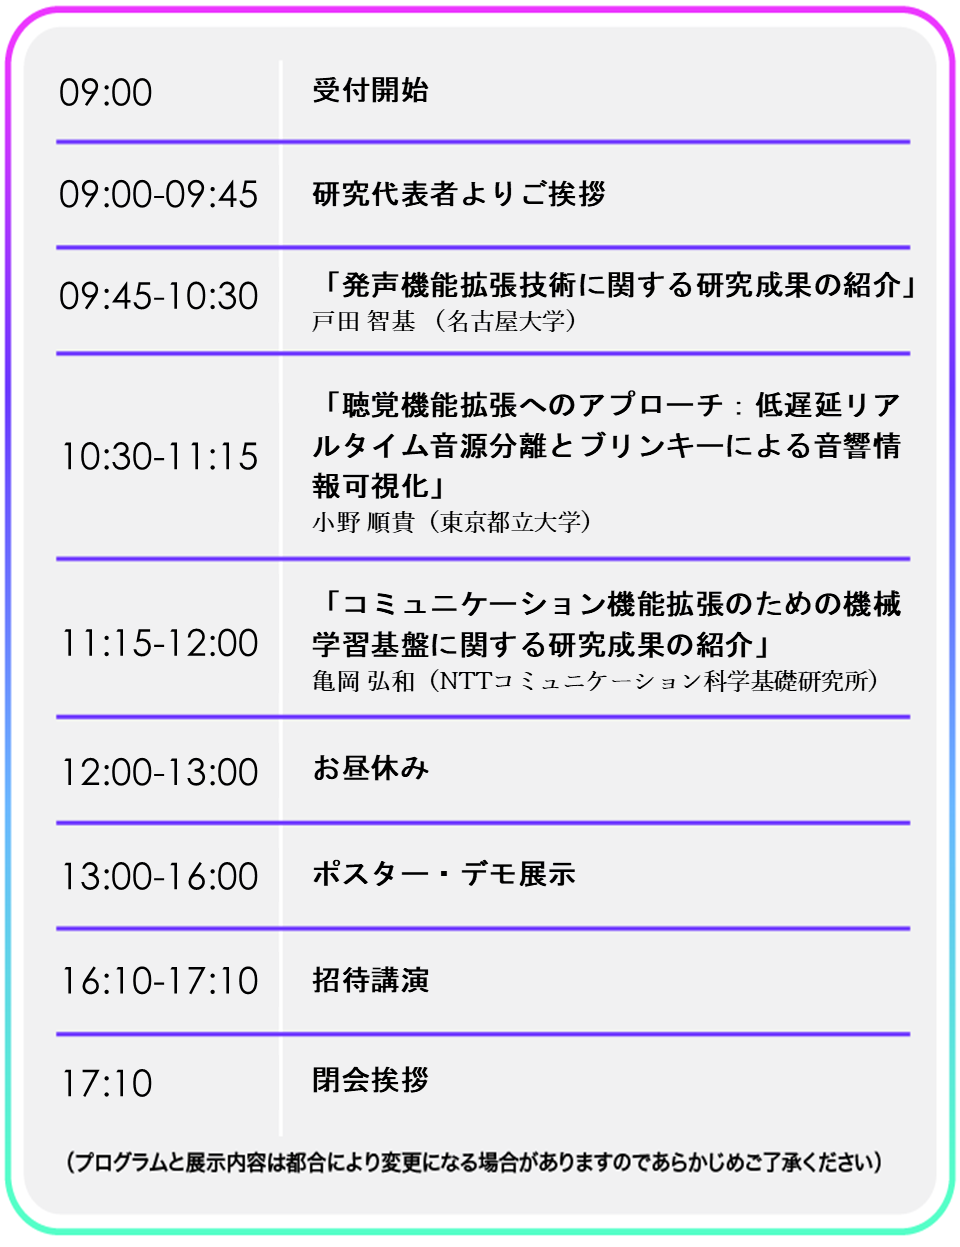
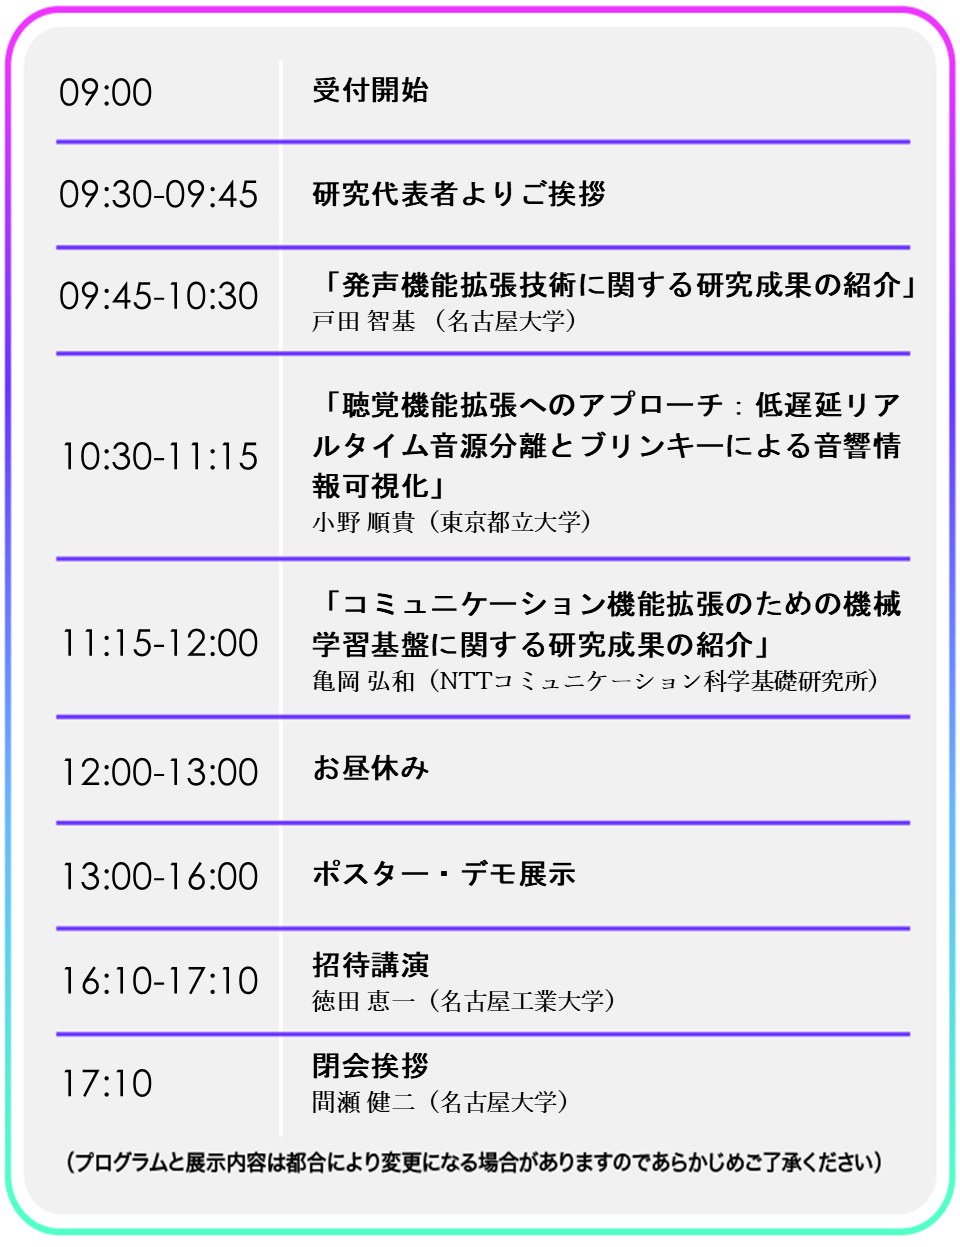
updated Nov.2

Changed region(s): [[0.3125, 0.7618, 0.625, 0.9142], [0.5, 0.8532, 0.5312, 0.9142]]

diff --git a/index.html b/index.html
@@ -676,9 +676,9 @@ blockquote {
 </p></div></div><figure id="d90ffe4f-23bd-49bf-b7ba-47147c19b316" class="image"><a href="images/%25E3%2582%25A2%25E3%2583%25BC%25E3%2583%2588%25E3%2583%259B%25E3%2582%2599%25E3%2583%25BC%25E3%2583%2588%25E3%2582%2599_28_%25E3%2581%25AE%25E3%2582%25B3%25E3%2583%2592%25E3%2582%259A%25E3%2583%25BC_6.png"><img style="width:720px" src="images/%25E3%2582%25A2%25E3%2583%25BC%25E3%2583%2588%25E3%2583%259B%25E3%2582%2599%25E3%2583%25BC%25E3%2583%2588%25E3%2582%2599_28_%25E3%2581%25AE%25E3%2582%25B3%25E3%2583%2592%25E3%2582%259A%25E3%2583%25BC_6.png"/></a></figure><p id="0615dd73-0137-485a-b58f-cba4babee2ea" class="">
 </p><p id="3919a239-8a8a-4581-88c8-f5f0345285d6" class="">
 </p><figure id="8c50fe93-ac97-420c-8fe2-b9af1c237d29" class="image" style="text-align:left"><a href="images/%25E3%2582%25A2%25E3%2583%25BC%25E3%2583%2588%25E3%2583%259B%25E3%2582%2599%25E3%2583%25BC%25E3%2583%2588%25E3%2582%2599_10_%25E3%2581%25AE%25E3%2582%25B3%25E3%2583%2592%25E3%2582%259A%25E3%2583%25BC_8.png"><img style="width:481px" src="images/%25E3%2582%25A2%25E3%2583%25BC%25E3%2583%2588%25E3%2583%259B%25E3%2582%2599%25E3%2583%25BC%25E3%2583%2588%25E3%2582%2599_10_%25E3%2581%25AE%25E3%2582%25B3%25E3%2583%2592%25E3%2582%259A%25E3%2583%25BC_8.png"/></a></figure><p id="f75af945-7908-4a3d-8fea-4f783b697690" class="block-color-gray">本シンポジウムでは、まず、研究代表者と2名の研究分担者が、JST CREST「共創型音メディア機能拡張」プロジェクトの研究成果を紹介する登壇発表を行います。その後、昼休憩をはさみまして、本プロジェクトメンバーが各種研究成果についてポスター発表およびデモ展示を行います。最後には、名古屋工業大学の徳田恵一教授をお招きして、音声合成技術に関する招待講演を行って頂きます。</p><p id="e30cc480-1bdd-49fc-ab63-71607212755b" class="">
-</p><figure id="05432828-5381-4fa6-8897-75e4aa9d2ebd" class="image"><a href="images/%25E3%2582%25B9%25E3%2582%25B1%25E3%2582%25B8%25E3%2583%25A5%25E3%2583%25BC%25E3%2583%25AB.png"><img style="width:960px" src="images/%25E3%2582%25B9%25E3%2582%25B1%25E3%2582%25B8%25E3%2583%25A5%25E3%2583%25BC%25E3%2583%25AB.png"/></a></figure><p id="9236d61c-fa75-44ed-bb23-b9ae7f68c420" class="">
+</p><figure id="ce876eb9-b8b3-44db-82db-ef47f01d02d2" class="image"><a href="images/%25E3%2582%25B9%25E3%2582%25B1%25E3%2582%25B8%25E3%2583%25A5%25E3%2583%25BC%25E3%2583%25AB.png"><img style="width:960px" src="images/%25E3%2582%25B9%25E3%2582%25B1%25E3%2582%25B8%25E3%2583%25A5%25E3%2583%25BC%25E3%2583%25AB.png"/></a></figure><p id="9236d61c-fa75-44ed-bb23-b9ae7f68c420" class="">
 </p><p id="ac024ff6-e197-4039-a9b0-5f51edbcd350" class="">
-</p><figure id="07e126ca-d70d-49ad-b94a-20632d746e72" class="image" style="text-align:left"><a href="images/%25E3%2582%25A2%25E3%2583%25BC%25E3%2583%2588%25E3%2583%259B%25E3%2582%2599%25E3%2583%25BC%25E3%2583%2588%25E3%2582%2599_10_%25E3%2581%25AE%25E3%2582%25B3%25E3%2583%2592%25E3%2582%259A%25E3%2583%25BC_10.png"><img style="width:481px" src="images/%25E3%2582%25A2%25E3%2583%25BC%25E3%2583%2588%25E3%2583%259B%25E3%2582%2599%25E3%2583%25BC%25E3%2583%2588%25E3%2582%2599_10_%25E3%2581%25AE%25E3%2582%25B3%25E3%2583%2592%25E3%2582%259A%25E3%2583%25BC_10.png"/></a></figure><figure id="b65242bd-f00a-431b-a7f7-e9d3f65a4e4c" class="image"><a href="images/%25E3%2583%2597%25E3%2583%25AD%25E3%2583%2595%25E3%2582%25A3%25E3%2583%25BC%25E3%2583%25AB_(2).png"><img style="width:960px" src="images/%25E3%2583%2597%25E3%2583%25AD%25E3%2583%2595%25E3%2582%25A3%25E3%2583%25BC%25E3%2583%25AB_(2).png"/></a></figure><figure id="4479d2eb-d85f-4bd1-96a0-aa2598fe6fa2" class="image"><a href="images/%25E3%2583%2597%25E3%2583%25AD%25E3%2583%2595%25E3%2582%25A3%25E3%2583%25BC%25E3%2583%25AB_(1).png"><img style="width:960px" src="images/%25E3%2583%2597%25E3%2583%25AD%25E3%2583%2595%25E3%2582%25A3%25E3%2583%25BC%25E3%2583%25AB_(1).png"/></a></figure><figure id="f2ff6783-7140-4a03-b1f7-244f62995b1b" class="image"><a href="images/%25E3%2583%2597%25E3%2583%25AD%25E3%2583%2595%25E3%2582%25A3%25E3%2583%25BC%25E3%2583%25AB.png"><img style="width:960px" src="images/%25E3%2583%2597%25E3%2583%25AD%25E3%2583%2595%25E3%2582%25A3%25E3%2583%25BC%25E3%2583%25AB.png"/></a></figure><figure id="784ba09c-4659-4921-b3a3-4b54fc843868" class="image"><a href="images/%25E3%2583%2597%25E3%2583%25AD%25E3%2583%2595%25E3%2582%25A3%25E3%2583%25BC%25E3%2583%25AB_%25E9%2596%2593%25E7%2580%25AC%25E5%2585%2588%25E7%2594%259F.png"><img style="width:960px" src="images/%25E3%2583%2597%25E3%2583%25AD%25E3%2583%2595%25E3%2582%25A3%25E3%2583%25BC%25E3%2583%25AB_%25E9%2596%2593%25E7%2580%25AC%25E5%2585%2588%25E7%2594%259F.png"/></a></figure><p id="8d75a452-b66b-47e7-8d79-7517fbcf295e" class="">
+</p><figure id="07e126ca-d70d-49ad-b94a-20632d746e72" class="image" style="text-align:left"><a href="images/%25E3%2582%25A2%25E3%2583%25BC%25E3%2583%2588%25E3%2583%259B%25E3%2582%2599%25E3%2583%25BC%25E3%2583%2588%25E3%2582%2599_10_%25E3%2581%25AE%25E3%2582%25B3%25E3%2583%2592%25E3%2582%259A%25E3%2583%25BC_10.png"><img style="width:481px" src="images/%25E3%2582%25A2%25E3%2583%25BC%25E3%2583%2588%25E3%2583%259B%25E3%2582%2599%25E3%2583%25BC%25E3%2583%2588%25E3%2582%2599_10_%25E3%2581%25AE%25E3%2582%25B3%25E3%2583%2592%25E3%2582%259A%25E3%2583%25BC_10.png"/></a></figure><figure id="b65242bd-f00a-431b-a7f7-e9d3f65a4e4c" class="image"><a href="images/%25E3%2583%2597%25E3%2583%25AD%25E3%2583%2595%25E3%2582%25A3%25E3%2583%25BC%25E3%2583%25AB_(2).png"><img style="width:960px" src="images/%25E3%2583%2597%25E3%2583%25AD%25E3%2583%2595%25E3%2582%25A3%25E3%2583%25BC%25E3%2583%25AB_(2).png"/></a></figure><figure id="4479d2eb-d85f-4bd1-96a0-aa2598fe6fa2" class="image"><a href="images/%25E3%2583%2597%25E3%2583%25AD%25E3%2583%2595%25E3%2582%25A3%25E3%2583%25BC%25E3%2583%25AB_(1).png"><img style="width:960px" src="images/%25E3%2583%2597%25E3%2583%25AD%25E3%2583%2595%25E3%2582%25A3%25E3%2583%25BC%25E3%2583%25AB_(1).png"/></a></figure><figure id="f2ff6783-7140-4a03-b1f7-244f62995b1b" class="image"><a href="images/%25E3%2583%2597%25E3%2583%25AD%25E3%2583%2595%25E3%2582%25A3%25E3%2583%25BC%25E3%2583%25AB.png"><img style="width:960px" src="images/%25E3%2583%2597%25E3%2583%25AD%25E3%2583%2595%25E3%2582%25A3%25E3%2583%25BC%25E3%2583%25AB.png"/></a></figure><figure id="0de2b998-826f-48b7-ad88-895434a959af" class="image"><a href="images/%25E3%2583%2597%25E3%2583%25AD%25E3%2583%2595%25E3%2582%25A3%25E3%2583%25BC%25E3%2583%25AB_%25E5%25BE%25B3%25E7%2594%25B0%25E5%2585%2588%25E7%2594%259F.png"><img style="width:960px" src="images/%25E3%2583%2597%25E3%2583%25AD%25E3%2583%2595%25E3%2582%25A3%25E3%2583%25BC%25E3%2583%25AB_%25E5%25BE%25B3%25E7%2594%25B0%25E5%2585%2588%25E7%2594%259F.png"/></a></figure><figure id="784ba09c-4659-4921-b3a3-4b54fc843868" class="image"><a href="images/%25E3%2583%2597%25E3%2583%25AD%25E3%2583%2595%25E3%2582%25A3%25E3%2583%25BC%25E3%2583%25AB_%25E9%2596%2593%25E7%2580%25AC%25E5%2585%2588%25E7%2594%259F.png"><img style="width:960px" src="images/%25E3%2583%2597%25E3%2583%25AD%25E3%2583%2595%25E3%2582%25A3%25E3%2583%25BC%25E3%2583%25AB_%25E9%2596%2593%25E7%2580%25AC%25E5%2585%2588%25E7%2594%259F.png"/></a></figure><p id="8d75a452-b66b-47e7-8d79-7517fbcf295e" class="">
 </p><p id="31d00bf4-e8ce-4f64-923b-5f471749ebed" class="">
 </p><figure id="e6d9a99f-6334-4d49-a1fd-13e09a4686a0" class="image" style="text-align:left"><a href="images/%25E3%2582%25A2%25E3%2583%25BC%25E3%2583%2588%25E3%2583%259B%25E3%2582%2599%25E3%2583%25BC%25E3%2583%2588%25E3%2582%2599_10_%25E3%2581%25AE%25E3%2582%25B3%25E3%2583%2592%25E3%2582%259A%25E3%2583%25BC_9.jpg"><img style="width:481px" src="images/%25E3%2582%25A2%25E3%2583%25BC%25E3%2583%2588%25E3%2583%259B%25E3%2582%2599%25E3%2583%25BC%25E3%2583%2588%25E3%2582%2599_10_%25E3%2581%25AE%25E3%2582%25B3%25E3%2583%2592%25E3%2582%259A%25E3%2583%25BC_9.jpg"/></a></figure><h3 id="39eab404-ef83-4ad0-9ffc-16fc00dd438a" class=""><strong>セッション１（13:00-14:00）</strong></h3><hr id="4ebde5e1-4500-401b-bb35-b4c172c449af"/><p id="2b67fcd1-fcba-4189-b972-c8d199436d95" class=""><strong>01 発声障害者が再び発話するために</strong></p><div id="f11064ea-087c-4ef6-95f8-bea880e20a40" class="column-list"><div id="ba236fa9-43b0-4036-8681-36f298919698" style="width:75%" class="column"><p id="e319e62a-b8b1-4553-a070-29a92c8ab8ee" class="block-color-gray">~喉頭摘出者のためのリアルタイム音声強調システムの開発~</p></div><div id="fe5f5575-b1f8-42e7-81b9-d833a7c7fc49" style="width:25%" class="column"><p id="e4ef6627-6116-437f-bcad-f84c40ef5f7f" class="block-color-gray">小林 和弘（名古屋大学）</p></div></div><hr id="784bc5ee-224f-4f1c-9d2f-90323d6d8b9e"/><p id="dd4ab1f5-76d8-48b7-b4d8-1328f45daf0b" class=""><strong>02 周囲の音も伝える音声変換 </strong></p><div id="c6ba3de7-df3c-4b8c-8e91-34713a16fe6c" class="column-list"><div id="4c87a0e3-ba53-4517-aeac-c016e07153e8" style="width:75%" class="column"><p id="0fbe9a6e-dc75-4dd0-babc-66cf7e913904" class="block-color-gray">~Noisy-to-noisy voice conversion against variations of noisy condition~</p></div><div id="264221e7-3379-439c-aab0-3811c2e65e4e" style="width:24.999999999999993%" class="column"><p id="490d7fe2-e279-4f4a-b324-3695c797f220" class="block-color-gray">Chao Xie (名古屋大学)</p></div></div><hr id="cb0c8d29-04ba-49ea-9b18-92091caf31ab"/><p id="55733357-ebd5-4aa0-9765-84916f0e301a" class=""><strong>03 喉頭摘出者の声をより自然な声に</strong></p><div id="1db570ef-5b43-4c05-9b42-44a1475f1f9f" class="column-list"><div id="281a0075-bf80-49ca-85d9-ac251052fce0" style="width:75%" class="column"><p id="4f46cecd-b042-441b-9367-c03c25d6538b" class="block-color-gray">~Electrolaryngeal speech enhancement based on training using synthetic data~</p></div><div id="eca7a070-4dec-4b11-90e8-0d5cae30e61f" style="width:24.999999999999993%" class="column"><p id="c54797cd-79ac-49f9-8c85-39a1b12a4713" class="block-color-gray">Ding Ma (名古屋大学)</p></div></div><hr id="269d9bc3-4bae-43cb-acf0-64585dfd868a"/><p id="e148f958-edbf-490c-8baf-c0b0404936ec" class=""><strong>04 構音障害があっても普通に話したい</strong></p><div id="6ea2c909-cf5e-4368-983a-3f43bd931b63" class="column-list"><div id="956ab93e-aa16-4a93-803c-d2b3e40713dc" style="width:75%" class="column"><p id="332e3ea1-02a7-4453-a2c8-c4324c18ab6a" class="block-color-gray">~Speaker identity preservation for dysarthric voice conversion~</p></div><div id="8abc16f2-1f23-442e-94f8-5dd647ec067e" style="width:25%" class="column"><p id="948e5663-3543-4438-a11f-6f103abaa568" class="block-color-gray">Wen-Chin Huang (名古屋大学)</p></div></div><hr id="3f4f0b22-dccb-4e48-83d7-6e6c72103e77"/><p id="1bfa8302-e43c-4131-bd5d-b8c85dd9238e" class=""><strong>05 音声波形を数式で表現</strong></p><div id="7ad7e014-fc75-47bb-9d4f-2ed47a21ede8" class="column-list"><div id="7a5cda4f-7dff-4675-8e78-df747ac634d5" style="width:75%" class="column"><p id="d11a2f20-9260-4a65-8d9c-f848d17d9ff4" class="block-color-gray">~Backpropagation-based quasi-harmonic modeling for speech waveform~</p></div><div id="93a3c6aa-02d7-478b-93e7-dd7f83c6dc8c" style="width:25%" class="column"><p id="d6283f5a-9d01-40f2-9946-9349511e3578" class="block-color-gray">Shaowen Chen (名古屋大学)</p></div></div><hr id="60351a0a-3ae0-401e-9a59-6cf58248bf61"/><p id="3633524d-f014-4e39-8663-c66c42153852" class=""><strong>06 いろいろな場所の音をコンピュータが”見て”分析</strong></p><div id="eda3ba1c-4cff-484d-90f3-ccceeadcdf22" class="column-list"><div id="75f49efa-6239-4e59-a10d-3e326b642ba2" style="width:75%" class="column"><p id="06353899-b2f1-40e3-9423-709617a61a50" class="block-color-gray">~音光変換デバイス「ブリンキー」を用いた分散音響センシングフレームワークのEnd-to-End学習~</p></div><div id="2bfbe261-8f72-45a9-8c0d-19c796665eb2" style="width:25.000000000000007%" class="column"><p id="9465afb6-b709-412c-af31-6461e1cb0815" class="block-color-gray">木下 裕磨（東海大学/東京都立大学）</p></div></div><hr id="6bace25e-51fb-4437-b847-53580146b171"/><p id="c9f943a0-68f7-4bfd-9603-bd28d20ec34c" class=""><strong>07 小さな補聴器でも、人の声を聞き取りやすくします</strong></p><div id="68321969-c462-43c2-af43-5707f8594249" class="column-list"><div id="c43968a6-c2fe-440e-8345-82749108ea79" style="width:75%" class="column"><p id="b5c74871-ba01-4282-b056-bea5e804d95d" class="block-color-gray">~補聴器応用を目的としたDNN音声強調処理の低演算量化~</p></div><div id="b5d038b3-842f-41b2-aa7d-1fe53d42af6a" style="width:25%" class="column"><p id="e4a8fc44-acf3-41d2-a762-2e3d7827c628" class="block-color-gray">春田 智穂（東京都立大学/リオン株式会社）</p></div></div><hr id="326e063a-f63c-4cd5-b4d3-c068709d5e3e"/><p id="aedbcecf-2106-4689-91fe-2244b285ce96" class=""><strong>08 遅延の小さい音声を聞く</strong></p><div id="b2336dc6-2690-4cde-a5df-7521ccaeb2e3" class="column-list"><div id="067f1ef8-40e4-490e-8501-419fac0ad31d" style="width:75%" class="column"><p id="9d6f1afb-5d52-4e20-9c38-66f556b1d2f2" class="block-color-gray">~リアルタイム音源分離のための低遅延な分割畳み込みの評価~</p></div><div id="6e4d40c9-b184-4d6c-87d2-4c6a049e041e" style="width:25.000000000000007%" class="column"><p id="681b625d-d252-4aac-b1cf-6f6429062c16" class="block-color-gray">栗城 結衣（東京都立大学）</p></div></div><hr id="d7361271-3e8f-4124-9d0c-f8b671458a78"/><p id="dfffe65c-5bc7-4309-9e2d-27acd55603ac" class=""><strong>09 短い時間で音の周波数を調べる</strong></p><div id="60bd73c9-8e73-45f1-a22b-0b7195acd9ef" class="column-list"><div id="d07976c1-df6e-41c2-a7d0-0af480573dc4" style="width:75%" class="column"><p id="b4b54b15-4433-4b6c-b8f9-b19de8888ef9" class="block-color-gray">~正弦波拘束微分方程式に基づく複数正弦波の短時間周波数推定~</p></div><div id="2a81591a-c2a2-4758-ae96-ee035eb03fb8" style="width:24.999999999999993%" class="column"><p id="cd84600f-7fb6-4350-9b9f-1eabe8f29a70" class="block-color-gray">山田 健太（東京都立大学）</p></div></div><hr id="c63a7ea8-d387-44d3-8b89-08112fbe4a0e"/><p id="26d2602a-c3a8-4473-9a0d-b56a9445509e" class=""><strong>10 大規模データを効率良く扱う</strong></p><div id="63204f3b-b88a-4bcd-9372-ff451621390c" class="column-list"><div id="52618a03-8777-43ff-91ff-beb3a794e119" style="width:75%" class="column"><p id="7dfa0ed6-2150-48b5-b197-85d4e3f07e52" class="block-color-gray">~ADMMを用いたスパース最適化による要素選択~</p></div><div id="44b301eb-c19c-4439-8314-66295f01b1d9" style="width:25%" class="column"><p id="f7fab8b0-9a60-4a8d-a784-0488ec553b54" class="block-color-gray">河村泰雅（東京都立大学）</p></div></div><hr id="be8eedb3-e7a9-4744-a9a9-3ab609ecafcd"/><p id="ad120669-8d4a-448a-8688-27dd61fafe62" class=""><strong>11 音声合成器を高速化・軽量化します</strong></p><div id="78b1a839-f80f-47b6-8bff-161b9ec94f3a" class="column-list"><div id="91375bed-a7dc-49c8-b82b-09e4fe99c437" style="width:75%" class="column"><p id="71601584-956d-4a70-9f2d-a9203acc23e7" class=""><mark class="highlight-gray">~ニューラルネットワークと信号処理を組合せたハイブリットアプローチ~</mark></p></div><div id="c3c088d4-8384-4345-82e2-b480796d8064" style="width:25%" class="column"><p id="2b708017-d8fd-46d3-97ea-d2d355006d7f" class=""><mark class="highlight-gray">金子卓弘（NTTコミュニケーション科学基礎研究所）</mark></p></div></div><hr id="00533731-6e82-4938-b9d3-c0ec4ee999b8"/><p id="1133a9a8-353d-4db9-8f26-8832c8aa90b7" class="">
 </p><h3 id="70d21a11-a95e-4ffb-84a8-10c27036dd54" class="">セッション<strong>２（14:00-15:00）</strong></h3><hr id="e0c52eb4-6c54-4036-9742-4449312abaa1"/><p id="7dd32d00-c51a-4a66-afc3-d1a462831d29" class=""><strong>12 入力テキストのノイズに強い音声合成</strong></p><div id="c283744b-a0a2-4a00-8a90-a240e08bf244" class="column-list"><div id="440d4823-fcdd-40b3-ab2a-b30572080448" style="width:75%" class="column"><p id="2042c32b-7442-4737-baba-b660ff3e4698" class="block-color-gray">~拡散確率モデルを用いて音声合成を頑健にする~</p></div><div id="22abe04f-e014-4b44-a9df-fc61153283a8" style="width:25.000000000000007%" class="column"><p id="f991f567-9e51-4f12-9553-78dfd24218ba" class="block-color-gray">安田 裕介 (名古屋大学)</p></div></div><hr id="efde244f-ac61-41bc-a53f-05114a4e6d5b"/><p id="0f64e600-87e0-42c7-bc45-3a053ab8aaf3" class=""><strong>13 合成音声のカスタマイゼーション</strong></p><div id="b7443547-e6a1-4ad0-8157-be6f8d243933" class="column-list"><div id="17b93808-11cf-4f40-9b8f-2e7a7046da87" style="width:75%" class="column"><p id="28189c07-fb98-4fa5-93b3-36ed2bc1f2d7" class="block-color-gray">~High quality specific voice synthesis by fine-tuning with few data~</p></div><div id="12fe784e-11fc-46db-a8eb-d06c72ca5789" style="width:25%" class="column"><p id="145dce0d-2801-4f1f-8b2f-14690e31c4d1" class="block-color-gray">Jingyi Feng (名古屋大学)</p></div></div><hr id="c947a133-a74b-4cf8-9632-1debc4e6f33d"/><p id="e4ceba67-6e36-4b38-b032-4116ebd60def" class=""><strong>14 合成音声の良し悪しを推定</strong></p><div id="1c6eca62-92e5-4cd8-ab3c-a774ed4c8131" class="column-list"><div id="0505d009-d1aa-4168-a3d6-5d9b63b51ae8" style="width:75%" class="column"><p id="9b30e26a-3dc3-4b01-8f76-ae5da73485a9" class="block-color-gray">~Naturalness score prediction of synthetic speech~</p></div><div id="686b5d2c-9d8c-499a-8dc5-b70aa0fe0523" style="width:25%" class="column"><p id="c1904ffe-d994-47cb-95f4-28afe1b93de2" class="block-color-gray">ChengHung Hu (名古屋大学)</p></div></div><hr id="52c1e6cb-f7b3-4802-8fd2-6dfdc0b8ef0f"/><p id="3f79b612-a97f-48cc-88c9-38a132e8e37c" class=""><strong>15 自由に配置できるウェアラブルマイク</strong></p><div id="e1d1be1b-1a66-4520-91ec-47951324506c" class="column-list"><div id="a2132a6e-24f9-4f7b-bad1-b78e6c1c210e" style="width:75%" class="column"><p id="377d6ee2-ab52-413a-b949-efc652520238" class="block-color-gray">~Rotation-robust beamforming with flexibly wearable microphone array~</p><p id="9f7d05e6-3743-4dc9-9bd0-783139bf34bf" class="">
